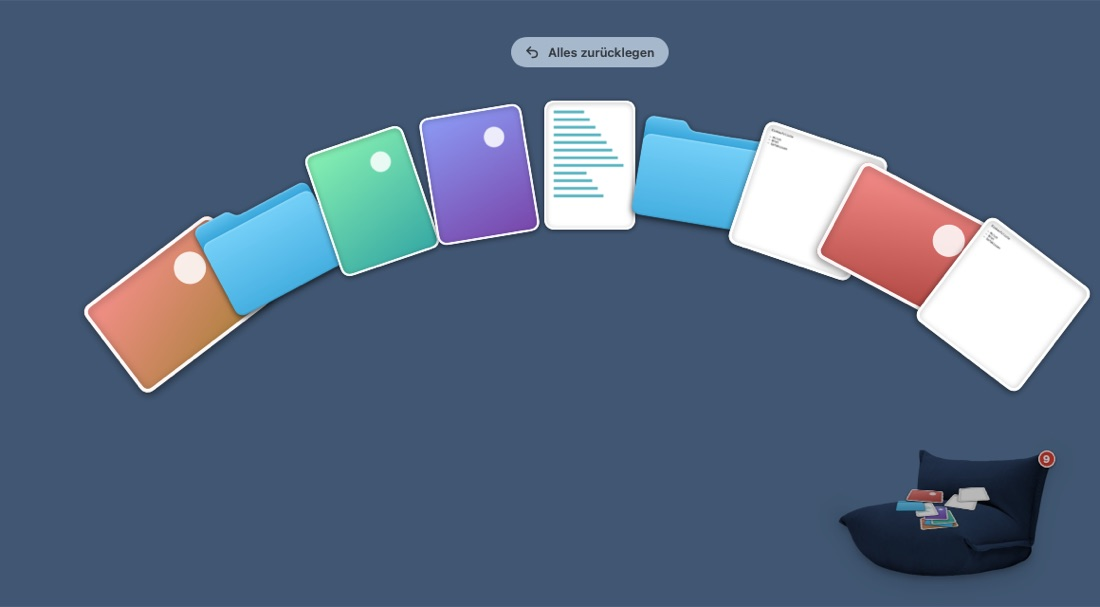
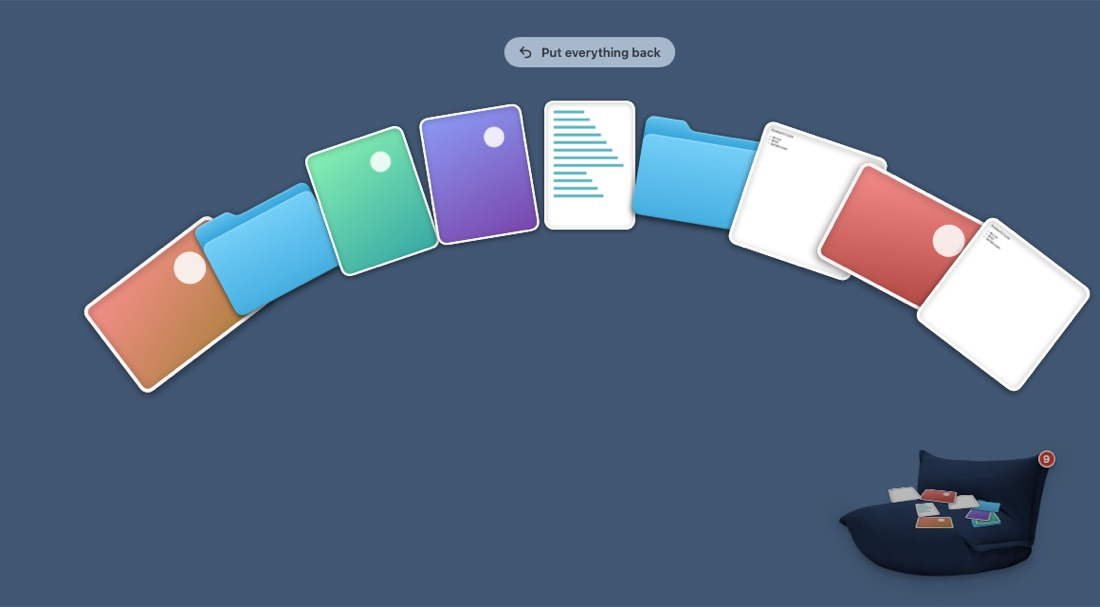
English and German, version 0.3
Texts are English in the code, with a German translation. The app shows German when the system's first language is German, English otherwise. English install guide next to the German one.

Changed region(s): [[0.4327, 0.0593, 0.6182, 0.1186], [0.8036, 0.8007, 0.9273, 0.8896]]

diff --git a/Sources/Sofaonmac/AppDelegate.swift b/Sources/Sofaonmac/AppDelegate.swift
@@ -49,11 +49,11 @@ final class AppDelegate: NSObject, NSApplicationDelegate, NSMenuDelegate {
         menu.autoenablesItems = false
 
         // 1. the chair itself
-        showItem = item("Sessel aufstellen", #selector(toggleSofa), key: "s", modifiers: [.command, .option])
+        showItem = item(L("Set up chair"), #selector(toggleSofa), key: "s", modifiers: [.command, .option])
         menu.addItem(showItem)
-        openItem = item("Durchwühlen", #selector(openFan), key: "d", modifiers: [.command, .option])
+        openItem = item(L("Rummage"), #selector(openFan), key: "d", modifiers: [.command, .option])
         menu.addItem(openItem)
-        putBackItem = item("Alles zurücklegen", #selector(putBackAll), key: "")
+        putBackItem = item(L("Put everything back"), #selector(putBackAll), key: "")
         menu.addItem(putBackItem)
         menu.addItem(.separator())
 
@@ -63,7 +63,7 @@ final class AppDelegate: NSObject, NSApplicationDelegate, NSMenuDelegate {
         host.frame.size = host.fittingSize
         chairs.view = host
         menu.addItem(chairs)
-        let sizeParent = NSMenuItem(title: "Größe", action: nil, keyEquivalent: "")
+        let sizeParent = NSMenuItem(title: L("Size"), action: nil, keyEquivalent: "")
         let sizeMenu = NSMenu()
         for s in SofaSize.allCases {
             let i = item(s.longTitle, #selector(pickSize(_:)), key: "")
@@ -76,10 +76,10 @@ final class AppDelegate: NSObject, NSApplicationDelegate, NSMenuDelegate {
         menu.addItem(.separator())
 
         // 3. app (options like always on top, login and the sofa folder live in the settings)
-        menu.addItem(item("Über Sofaonmac", #selector(about), key: ""))
-        menu.addItem(item("Einstellungen …", #selector(openSettings), key: ","))
+        menu.addItem(item(L("About Sofaonmac"), #selector(about), key: ""))
+        menu.addItem(item(L("Settings …"), #selector(openSettings), key: ","))
         menu.addItem(.separator())
-        menu.addItem(item("Sofaonmac beenden", #selector(quit), key: "q"))
+        menu.addItem(item(L("Quit Sofaonmac"), #selector(quit), key: "q"))
     }
 
     private func item(_ title: String, _ action: Selector, key: String,
@@ -92,8 +92,8 @@ final class AppDelegate: NSObject, NSApplicationDelegate, NSMenuDelegate {
 
     func menuNeedsUpdate(_ menu: NSMenu) {
         let n = model.items.count
-        showItem.title = model.visible ? "Sessel wegräumen" : "Sessel aufstellen"
-        openItem.title = n == 0 ? "Durchwühlen" : "Durchwühlen (\(n))"
+        showItem.title = model.visible ? L("Put chair away") : L("Set up chair")
+        openItem.title = n == 0 ? L("Rummage") : L("Rummage") + " (\(n))"
         openItem.isEnabled = n > 0 && model.visible
         putBackItem.isEnabled = n > 0
         for i in sizeItems { i.state = i.tag == model.size.rawValue ? .on : .off }
@@ -143,8 +143,8 @@ final class AppDelegate: NSObject, NSApplicationDelegate, NSMenuDelegate {
         let main = NSMenu()
         let appItem = NSMenuItem()
         let appMenu = NSMenu()
-        appMenu.addItem(withTitle: "Fenster schließen", action: #selector(NSWindow.performClose(_:)), keyEquivalent: "w")
-        appMenu.addItem(withTitle: "Sofaonmac beenden", action: #selector(NSApplication.terminate(_:)), keyEquivalent: "q")
+        appMenu.addItem(withTitle: L("Close Window"), action: #selector(NSWindow.performClose(_:)), keyEquivalent: "w")
+        appMenu.addItem(withTitle: L("Quit Sofaonmac"), action: #selector(NSApplication.terminate(_:)), keyEquivalent: "q")
         appItem.submenu = appMenu
         main.addItem(appItem)
         return main

diff --git a/Sources/Sofaonmac/SettingsView.swift b/Sources/Sofaonmac/SettingsView.swift
@@ -15,10 +15,10 @@ struct SettingsView: View {
                 .padding(.bottom, 12)
             separator
 
-            SectionLabel("Sessel")
+            SectionLabel(L("Chair"))
             SofaPicker(model: model)
                 .padding(.bottom, 2)
-            Row("Größe") {
+            Row(L("Size")) {
                 Picker("", selection: $model.size) {
                     ForEach(SofaSize.allCases) { Text($0.title).tag($0) }
                 }
@@ -26,29 +26,29 @@ struct SettingsView: View {
                 .labelsHidden()
                 .frame(width: 104)
             }
-            Row("Position", caption: "Sessel mit der Maus verschieben") {
-                Button("In die Ecke", action: onResetPosition).controlSize(.small)
+            Row(L("Position"), caption: L("Drag the chair with the mouse")) {
+                Button(L("To the corner"), action: onResetPosition).controlSize(.small)
             }
             separator
 
-            SectionLabel("Optionen")
-            Row("Immer im Vordergrund", caption: model.alwaysOnTop ? "Steht vor allen Fenstern" : "Kommt nach vorne, sobald du etwas ziehst") {
+            SectionLabel(L("Options"))
+            Row(L("Always in front"), caption: model.alwaysOnTop ? L("Stands in front of all windows") : L("Comes forward when you drag something")) {
                 Toggle("", isOn: $model.alwaysOnTop).toggleStyle(.switch).labelsHidden().controlSize(.mini)
             }
-            Row("Sofa-Ordner", caption: "Hier liegt alles, was auf dem Sofa ist") {
+            Row(L("Sofa folder"), caption: L("Everything on the sofa is here")) {
                 Button { model.showFolder() } label: {
-                    Label("Im Finder", systemImage: "arrow.up.right").labelStyle(.titleAndIcon)
+                    Label(L("In Finder"), systemImage: "arrow.up.right").labelStyle(.titleAndIcon)
                 }
                 .controlSize(.small)
             }
-            Row("Beim Login starten", caption: model.loginError ?? "Nach dem Neustart wieder da") {
+            Row(L("Start at login"), caption: model.loginError ?? L("Back after a restart")) {
                 Toggle("", isOn: Binding(get: { model.launchAtLogin }, set: { model.setLaunchAtLogin($0) }))
                     .toggleStyle(.switch).labelsHidden().controlSize(.mini)
             }
             separator
 
             HStack {
-                Button(action: onPutBackAll) { Label("Alles zurücklegen", systemImage: "arrow.uturn.backward") }
+                Button(action: onPutBackAll) { Label(L("Put everything back"), systemImage: "arrow.uturn.backward") }
                     .buttonStyle(.plain)
                     .disabled(model.items.isEmpty)
                 Spacer()
@@ -72,7 +72,7 @@ struct SettingsView: View {
                 .frame(width: 40, height: 40)
             VStack(alignment: .leading, spacing: 1) {
                 Text("Sofaonmac").font(.system(size: 15, weight: .semibold))
-                Text(model.visible ? "Steht da · \(model.countText)" : "Weggeräumt · \(model.countText)")
+                Text((model.visible ? L("Standing") : L("Put away")) + " · " + model.countText)
                     .font(.system(size: 12))
                     .foregroundStyle(.secondary)
                     .lineLimit(1)
@@ -87,7 +87,7 @@ struct SettingsView: View {
     }
 }
 
-/// Small grey heading, like the "Sessel" label in the menu.
+/// Small grey heading, like the "Chair" label in the menu.
 private struct SectionLabel: View {
     let text: String
     init(_ text: String) { self.text = text }

diff --git a/Sources/Sofaonmac/SofaStyle.swift b/Sources/Sofaonmac/SofaStyle.swift
@@ -14,15 +14,15 @@ struct SofaStyle: Identifiable, Equatable, Hashable {
     let width: CGFloat
 
     static let all: [SofaStyle] = [
-        SofaStyle(id: "cord", title: "Cord", subtitle: "Grüner Cord-Sessel", seat: CGPoint(x: 0.35, y: 0.47), spread: 0.16, width: 95),
-        SofaStyle(id: "togo", title: "Togo", subtitle: "Der Knautsch-Klassiker in braunem Leder", seat: CGPoint(x: 0.64, y: 0.55), spread: 0.14, width: 105),
-        SofaStyle(id: "lc2", title: "LC2", subtitle: "Le Corbusiers Würfel in schwarzem Leder", seat: CGPoint(x: 0.30, y: 0.36), spread: 0.08, width: 90),
-        SofaStyle(id: "sand", title: "Sandsofa", subtitle: "Weiches Modulsofa in Beige", seat: CGPoint(x: 0.38, y: 0.45), spread: 0.18, width: 220),
-        SofaStyle(id: "freischwinger", title: "Freischwinger", subtitle: "Chromrohr mit Wiener Geflecht", seat: CGPoint(x: 0.43, y: 0.42), spread: 0.12, width: 60),
-        SofaStyle(id: "sprossen", title: "Sprossenstuhl", subtitle: "Heller Buchenstuhl mit Sprossenlehne", seat: CGPoint(x: 0.47, y: 0.40), spread: 0.13, width: 54),
-        SofaStyle(id: "gaming", title: "Gaming-Stuhl", subtitle: "Schwarz-weißer Bürostuhl auf Rollen", seat: CGPoint(x: 0.45, y: 0.55), spread: 0.14, width: 74),
-        SofaStyle(id: "bugholz", title: "Bugholzsessel", subtitle: "Loungesessel mit cremefarbenem Bouclé", seat: CGPoint(x: 0.40, y: 0.45), spread: 0.16, width: 91),
-        SofaStyle(id: "sitzsack", title: "Sitzsack", subtitle: "Dunkelblauer Cord zum Reinfläzen", seat: CGPoint(x: 0.50, y: 0.52), spread: 0.2, width: 125),
+        SofaStyle(id: "cord", title: L("Corduroy"), subtitle: L("Green corduroy armchair"), seat: CGPoint(x: 0.35, y: 0.47), spread: 0.16, width: 95),
+        SofaStyle(id: "togo", title: "Togo", subtitle: L("The squishy classic in brown leather"), seat: CGPoint(x: 0.64, y: 0.55), spread: 0.14, width: 105),
+        SofaStyle(id: "lc2", title: "LC2", subtitle: L("Le Corbusier's cube in black leather"), seat: CGPoint(x: 0.30, y: 0.36), spread: 0.08, width: 90),
+        SofaStyle(id: "sand", title: L("Sand sofa"), subtitle: L("Soft modular sofa in beige"), seat: CGPoint(x: 0.38, y: 0.45), spread: 0.18, width: 220),
+        SofaStyle(id: "freischwinger", title: L("Cantilever"), subtitle: L("Chrome tube with Viennese cane"), seat: CGPoint(x: 0.43, y: 0.42), spread: 0.12, width: 60),
+        SofaStyle(id: "sprossen", title: L("Spindle chair"), subtitle: L("Light beech chair with a spindle back"), seat: CGPoint(x: 0.47, y: 0.40), spread: 0.13, width: 54),
+        SofaStyle(id: "gaming", title: L("Gaming chair"), subtitle: L("Black and white office chair on wheels"), seat: CGPoint(x: 0.45, y: 0.55), spread: 0.14, width: 74),
+        SofaStyle(id: "bugholz", title: L("Bentwood"), subtitle: L("Lounge chair in cream bouclé"), seat: CGPoint(x: 0.40, y: 0.45), spread: 0.16, width: 91),
+        SofaStyle(id: "sitzsack", title: L("Bean bag"), subtitle: L("Dark blue corduroy to sink into"), seat: CGPoint(x: 0.50, y: 0.52), spread: 0.2, width: 125),
     ]
 
     static let standard = all[0]
@@ -148,9 +148,9 @@ enum SofaSize: Int, CaseIterable, Identifiable {
     }
     var longTitle: String {
         switch self {
-        case .small: "Klein"
-        case .medium: "Mittel"
-        case .large: "Groß"
+        case .small: L("Small")
+        case .medium: L("Medium")
+        case .large: L("Large")
         }
     }
     var scale: CGFloat {

diff --git a/Sources/Sofaonmac/SofaController.swift b/Sources/Sofaonmac/SofaController.swift
@@ -281,7 +281,7 @@ final class SofaHostView: NSHostingView<SofaView> {
         let stamp = Self.stamp()
         if let img = NSImage(pasteboard: pb), let tiff = img.tiffRepresentation,
            let png = NSBitmapImageRep(data: tiff)?.representation(using: .png, properties: [:]) {
-            return model.add(data: png, named: "Bild \(stamp).png")
+            return model.add(data: png, named: L("Picture") + " \(stamp).png")
         }
         if let link = pb.string(forType: .URL) ?? pb.string(forType: .string).flatMap({ s in
             URL(string: s).flatMap { $0.scheme?.hasPrefix("http") == true ? s : nil } }),
@@ -293,14 +293,14 @@ final class SofaHostView: NSHostingView<SofaView> {
             }
         }
         if let text = pb.string(forType: .string), let data = text.data(using: .utf8) {
-            return model.add(data: data, named: "Notiz \(stamp).txt")
+            return model.add(data: data, named: L("Note") + " \(stamp).txt")
         }
         return false
     }
 
     private static func stamp() -> String {
         let f = DateFormatter()
-        f.dateFormat = "yyyy-MM-dd 'um' HH.mm.ss"
+        f.dateFormat = "yyyy-MM-dd '" + L("at") + "' HH.mm.ss"
         return f.string(from: Date())
     }
 }

diff --git a/Sources/Sofaonmac/FanView.swift b/Sources/Sofaonmac/FanView.swift
@@ -33,7 +33,7 @@ struct FanView: View {
 
                 if model.items.count > 1 {
                     Button(action: onPutBackAll) {
-                        Label("Alles zurücklegen", systemImage: "arrow.uturn.backward")
+                        Label(L("Put everything back"), systemImage: "arrow.uturn.backward")
                             .font(.system(size: 13, weight: .semibold))
                             .padding(.horizontal, 14).padding(.vertical, 8)
                             .background(.regularMaterial, in: Capsule())
@@ -66,7 +66,7 @@ struct FanView: View {
                         .opacity(showLabel ? 1 : 0)
                         .allowsHitTesting(false)
                     Button { onPutBack(item) } label: {
-                        Label("Zurücklegen", systemImage: "arrow.uturn.backward")
+                        Label(L("Put back"), systemImage: "arrow.uturn.backward")
                             .font(.system(size: 11, weight: .semibold))
                             .padding(.horizontal, 10).padding(.vertical, 4)
                             .background(.regularMaterial, in: Capsule())

diff --git a/Sources/Sofaonmac/SofaModel.swift b/Sources/Sofaonmac/SofaModel.swift
@@ -71,17 +71,17 @@ final class SofaModel: ObservableObject {
             if on { try SMAppService.mainApp.register() } else { try SMAppService.mainApp.unregister() }
             loginError = nil
         } catch {
-            loginError = "Geht nur, wenn die App im Programme-Ordner liegt."
+            loginError = L("Only works when the app is in the Applications folder.")
         }
         launchAtLogin = SMAppService.mainApp.status == .enabled
     }
 
-    /// "3 Sachen drauf"
+    /// "3 things on it"
     var countText: String {
         switch items.count {
-        case 0: "leer"
-        case 1: "1 Sache drauf"
-        case let n: "\(n) Sachen drauf"
+        case 0: L("empty")
+        case 1: L("1 thing on it")
+        case let n: String(format: L("%d things on it"), n)
         }
     }
 

diff --git a/Sources/Sofaonmac/Language.swift b/Sources/Sofaonmac/Language.swift
@@ -1,0 +1,14 @@
+import Foundation
+
+/// German when macOS's first language is German, English otherwise (also for languages the app has no
+/// translation for, where macOS would fall back to the next language in the list, maybe German).
+/// English is the app's own language; German comes from Resources/de.lproj/Localizable.strings.
+/// The English text is its own key, so a missing translation still shows English.
+func L(_ english: String) -> String { NSLocalizedString(english, bundle: Texts.bundle, comment: "") }
+
+enum Texts {
+    static let bundle: Bundle = {
+        let german = Locale.preferredLanguages.first?.hasPrefix("de") == true
+        return Bundle.main.path(forResource: german ? "de" : "en", ofType: "lproj").flatMap(Bundle.init(path:)) ?? .main
+    }()
+}

diff --git a/Sources/Sofaonmac/FanHitView.swift b/Sources/Sofaonmac/FanHitView.swift
@@ -3,7 +3,7 @@ import AppKit
 /// Lies over the fan and does all the mouse work for its cards: hover, click (open) and drag (the real file).
 ///
 /// It tests the mouse against the cards' actual, rotated outlines, topmost card first, and lets every other
-/// click through to SwiftUI below (the "Zurücklegen" buttons, "Alles zurücklegen", the background).
+/// click through to SwiftUI below (the "Put back" buttons, "Put everything back", the background).
 /// Dragging offers "move", so Finder moves the file out of the sofa instead of copying it, and puts it
 /// where the mouse lets go.
 final class FanHitView: NSView, NSDraggingSource {

diff --git a/Sources/Sofaonmac/SofaPicker.swift b/Sources/Sofaonmac/SofaPicker.swift
@@ -89,7 +89,7 @@ struct MenuSofaPicker: View {
 
     var body: some View {
         VStack(alignment: .leading, spacing: 4) {
-            Text("Sessel")
+            Text(L("Chair"))
                 .font(.system(size: 11, weight: .semibold))
                 .foregroundStyle(.secondary)
                 .padding(.leading, 16)

diff --git a/README.md b/README.md
@@ -1,31 +1,34 @@
 # Sofaonmac
 
-Ein Sessel für den Mac-Schreibtisch. Dateien, Ordner, Links oder Text draufziehen, dann liegen sie auf dem Sessel statt auf dem Schreibtisch. Ein Klick fächert alles auf: öffnen, zurücklegen oder woandershin ziehen.
+An armchair for your Mac desktop. Drag files, folders, links or text onto it and they end up on the chair instead of cluttering the desktop. One click fans everything out, so you can open a file, put it back where it was, or drag it somewhere else.
 
 ![Sofaonmac](docs/screenshot.jpg)
 
-- Neun Sitzmöbel zur Auswahl, drei Größen, passend zu den Teppichen von Rugonmac
-- Alles liegt in einem normalen Ordner, auch wenn die App nicht läuft
-- Menüleisten-App, im Leerlauf ohne CPU-Last
+- Nine seats to choose from, in three sizes that match the rugs of Rugonmac
+- Everything stays in a normal folder, even while the app isn't running
+- Lives in the menu bar and uses no CPU while idle
+- In German when your Mac is set to German, in English otherwise
 
-## Installieren
+## Install
 
-1. `Sofaonmac.zip` unter [Releases](../../releases/latest) laden und entpacken.
-2. `Sofaonmac.app` in den Programme-Ordner ziehen.
-3. Einmal im Terminal ausführen, weil die App nicht notarisiert ist:
+1. Download `Sofaonmac.zip` from [Releases](../../releases/latest) and unzip it.
+2. Drag `Sofaonmac.app` into the Applications folder.
+3. Run this once in Terminal, because the app isn't notarized:
    ```sh
    xattr -dr com.apple.quarantine /Applications/Sofaonmac.app
    ```
-4. Öffnen.
+4. Open it.
 
-Benötigt macOS 14 und einen Mac mit Apple-Chip. Ausführlich: [Anleitung](Resources/Anleitung.txt).
+Requires macOS 14 and a Mac with Apple silicon. Step by step: [Install.txt](Resources/Install.txt) ([Deutsch](Resources/Anleitung.txt)).
 
-## Bauen
+## Build
 
-Es reichen die Xcode Command Line Tools.
+The Xcode Command Line Tools are enough.
 
 ```sh
-scripts/build.sh --install   # bauen, nach /Applications kopieren, starten
-scripts/package.sh           # dist/Sofaonmac.zip zum Weitergeben
-scripts/add-sofa.sh <bild> <id>   # neues Sitzmöbel freistellen, dann in SofaStyle.swift eintragen
+scripts/build.sh --install        # build, copy to /Applications, start
+scripts/package.sh                # dist/Sofaonmac.zip for sharing
+scripts/add-sofa.sh <image> <id>  # cut out a new seat, then add it to SofaStyle.swift
 ```
+
+Texts are written in English in the code; the German translations are in `Resources/de.lproj/Localizable.strings`.
